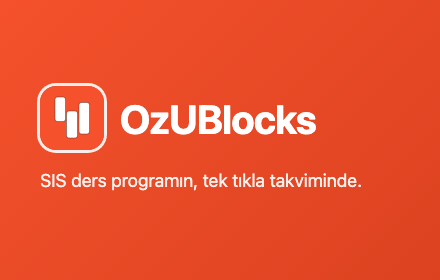
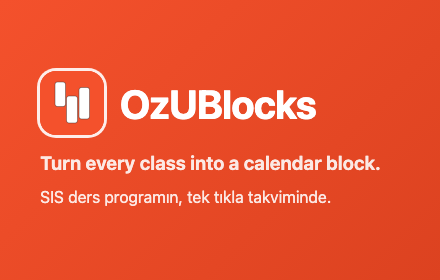
Add motto: Turn every class into a calendar block.
Show the motto below the app name in the popup, README, store screenshot,
and promo tile. Use it in the package summary and store description.

Changed region(s): [[0.0591, 0.2286, 0.8568, 0.7429]]

diff --git a/store/screenshot.html b/store/screenshot.html
@@ -10,9 +10,10 @@
     background: radial-gradient(circle at 20% 20%, #ffe3d9, #faf7f5 60%);
     font-family: system-ui, -apple-system, "Segoe UI", sans-serif; color: #26201d;
   }
-  .copy { width: 440px; }
+  .copy { width: 460px; }
   .copy img { width: 72px; height: 72px; border-radius: 18px; box-shadow: 0 8px 24px rgba(244,81,44,.3); }
   h1 { font-size: 52px; margin: 24px 0 12px; letter-spacing: -0.02em; }
+  .motto { font-size: 26px; white-space: nowrap; font-weight: 650; color: #dc4220; margin: 0 0 16px; line-height: 1.3; }
   p { font-size: 22px; line-height: 1.45; color: #6e625c; margin: 0; }
   iframe {
     width: 380px; height: 640px; flex: none; transform-origin: center; border: 0; border-radius: 18px; background: #faf7f5;
@@ -24,6 +25,7 @@
   <div class="copy">
     <img src="../icons/icon128.png" alt="">
     <h1>OzUBlocks</h1>
+    <p class="motto">Turn every class into a calendar block.</p>
     <p>SIS ders programınızı tek tıkla, dönem boyunca tekrar eden bir takvim dosyasına çevirin.</p>
   </div>
   <iframe id="popup" src="../popup.html"></iframe>

diff --git a/store/promo-tile.html b/store/promo-tile.html
@@ -13,11 +13,13 @@
   .row { display: flex; align-items: center; gap: 16px; }
   img { width: 64px; height: 64px; border-radius: 16px; box-shadow: 0 0 0 3px rgba(255,255,255,.9); }
   h1 { margin: 0; font-size: 40px; letter-spacing: -0.02em; }
-  p { margin: 18px 0 0; font-size: 18px; line-height: 1.4; opacity: .92; }
+  .motto { margin: 16px 0 0; font-size: 19px; white-space: nowrap; font-weight: 650; line-height: 1.3; }
+  p { margin: 10px 0 0; font-size: 16px; line-height: 1.4; opacity: .88; }
 </style>
 </head>
 <body>
   <div class="row"><img src="../icons/icon128.png" alt=""><h1>OzUBlocks</h1></div>
+  <p class="motto">Turn every class into a calendar block.</p>
   <p>SIS ders programın, tek tıkla takviminde.</p>
 </body>
 </html>

diff --git a/popup.html b/popup.html
@@ -11,6 +11,7 @@
   <img class="logo" src="icons/icon128.png" alt="" width="36" height="36">
   <div>
     <h1>OzUBlocks</h1>
+    <p class="motto">Turn every class into a calendar block.</p>
     <p class="sub">SIS'ten derslerinizi tespit edip dönem boyunca tekrar eden bir takvim dosyası oluşturur.</p>
   </div>
 </header>

diff --git a/popup.css b/popup.css
@@ -53,8 +53,16 @@ h1 {
   letter-spacing: -0.015em;
 }
 
-.sub {
+.motto {
   margin: 1px 0 0;
+  color: var(--brand-strong);
+  font-size: 12px;
+  font-weight: 600;
+  line-height: 1.4;
+}
+
+.sub {
+  margin: 3px 0 0;
   color: var(--muted);
   font-size: 12px;
   line-height: 1.4;

diff --git a/store/LISTING.md b/store/LISTING.md
@@ -13,12 +13,14 @@ OzUBlocks
 **Summary** (comes from `manifest.json`, 132 characters max)
 
 ```
-Özyeğin SIS ders programınızı takvim dosyası olarak kaydeder. Üniversite ile resmî bir bağlantısı yoktur.
+Turn every class into a calendar block. Özyeğin SIS ders programınızı takvime aktarır. Üniversite ile resmî bir bağlantısı yoktur.
 ```
 
 **Description**
 
 ```
+Turn every class into a calendar block.
+
 OzUBlocks, Özyeğin Üniversitesi SIS'teki haftalık ders programınızı okur ve dönem boyunca her hafta tekrar eden bir takvim dosyasına (.ics) çevirir. Dosyayı Google Takvim, Apple Takvim veya Outlook'a içe aktarabilirsiniz.
 
 Nasıl çalışır:

diff --git a/README.md b/README.md
@@ -4,6 +4,8 @@
 
 <h1 align="center">OzUBlocks</h1>
 
+<p align="center"><strong>Turn every class into a calendar block.</strong></p>
+
 <p align="center">
   A browser extension that turns your Özyeğin University SIS course schedule into a calendar file that repeats every week of the semester.
 </p>
